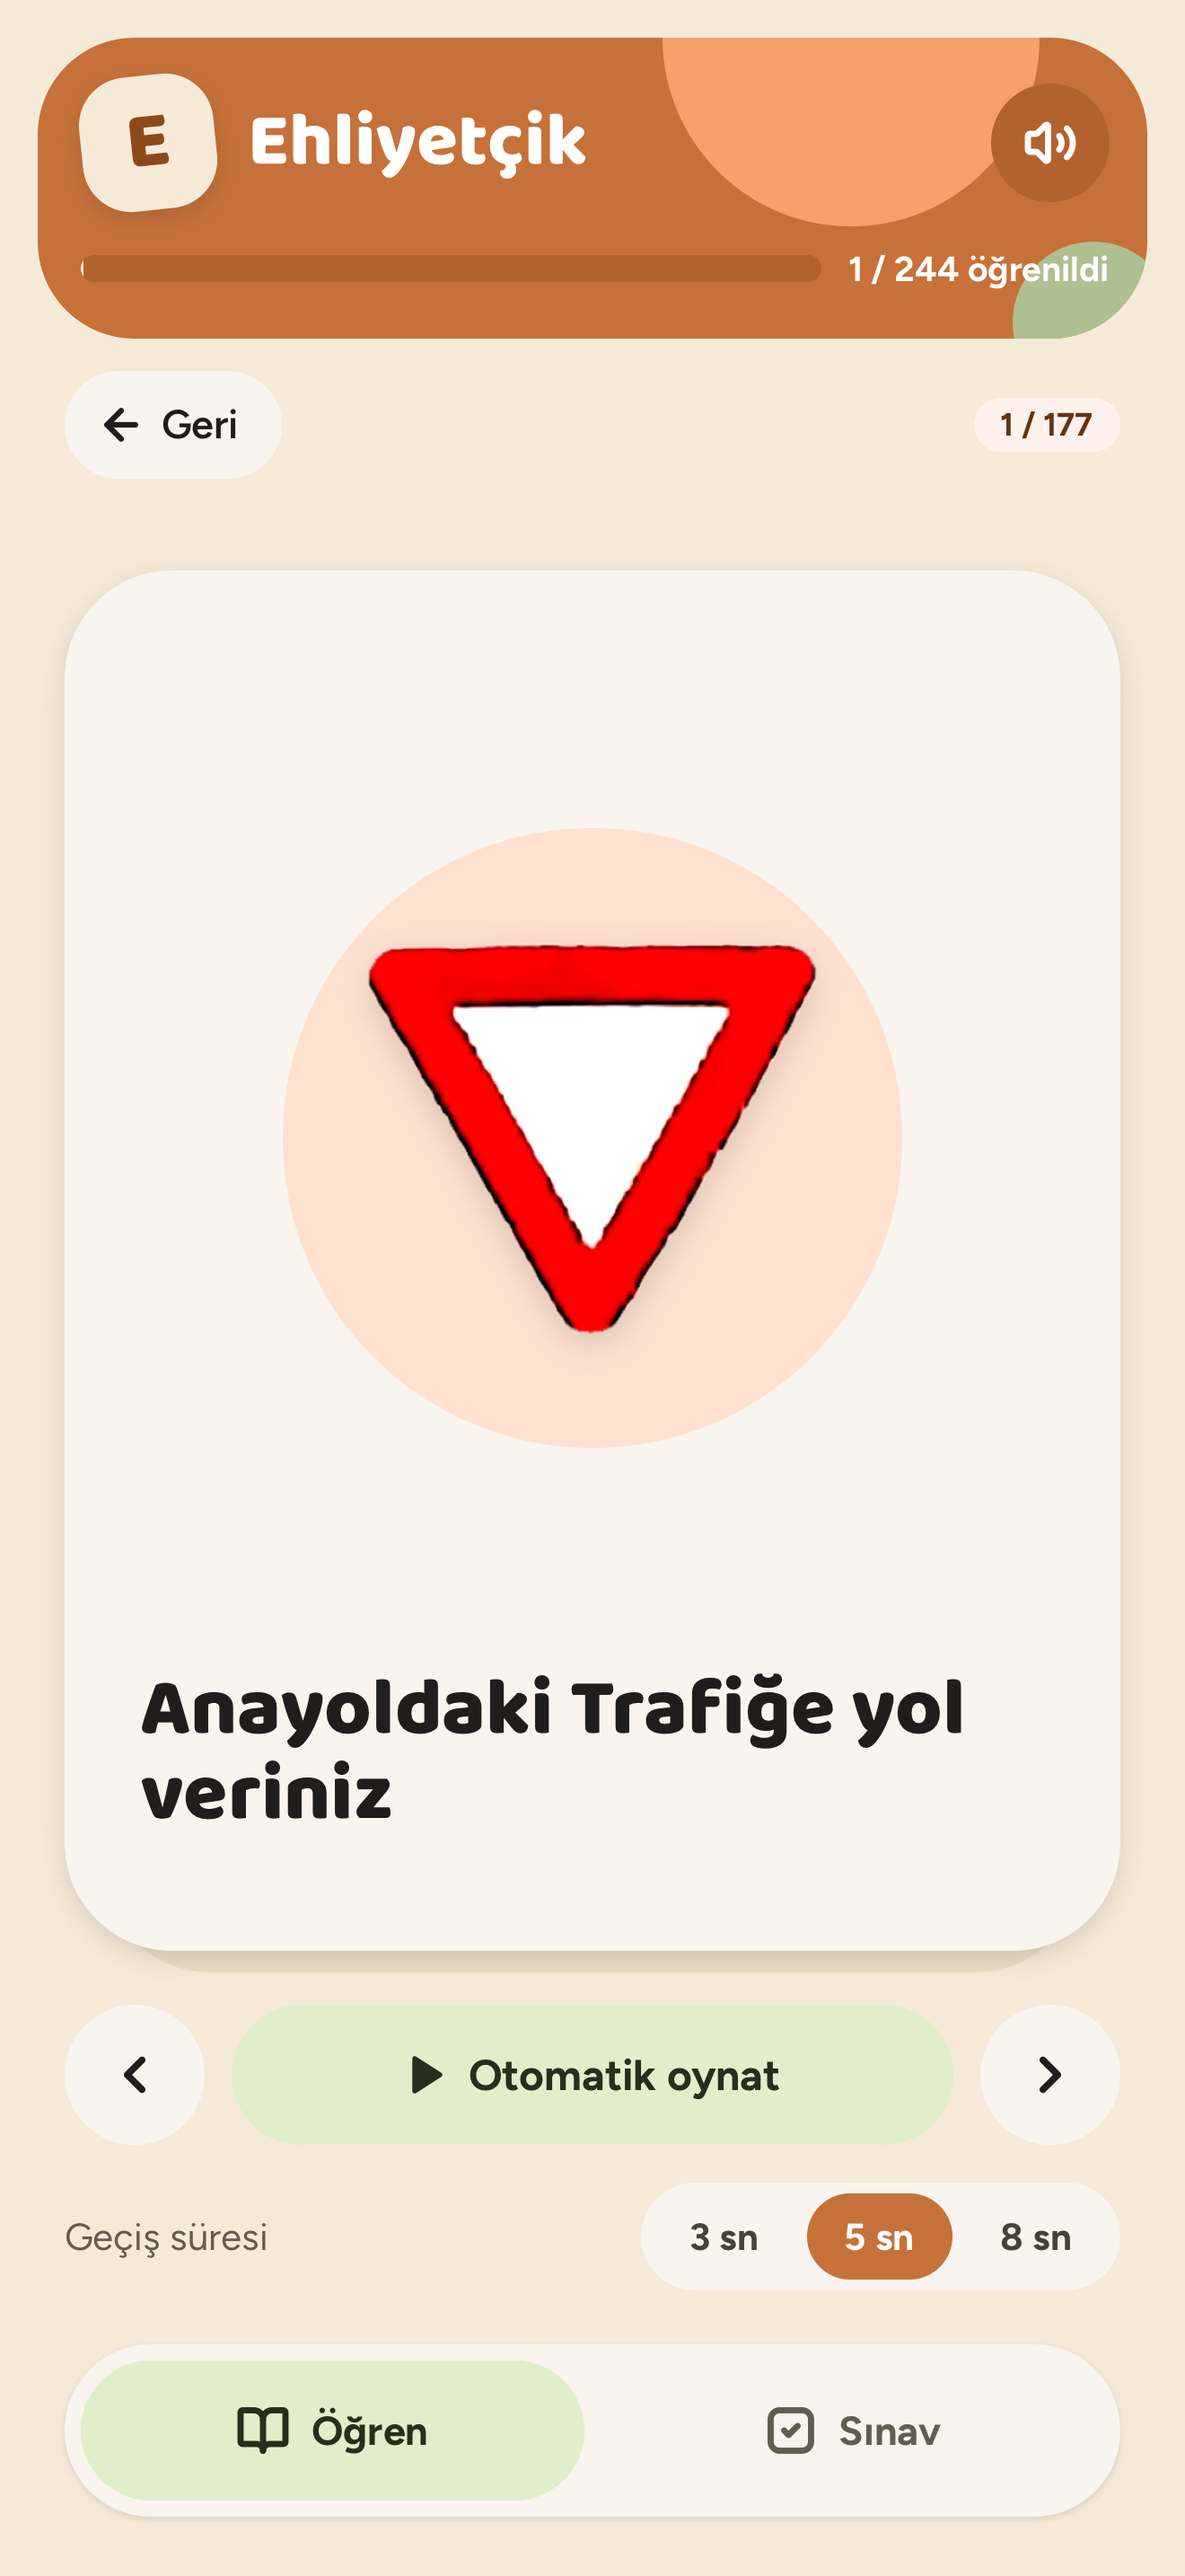
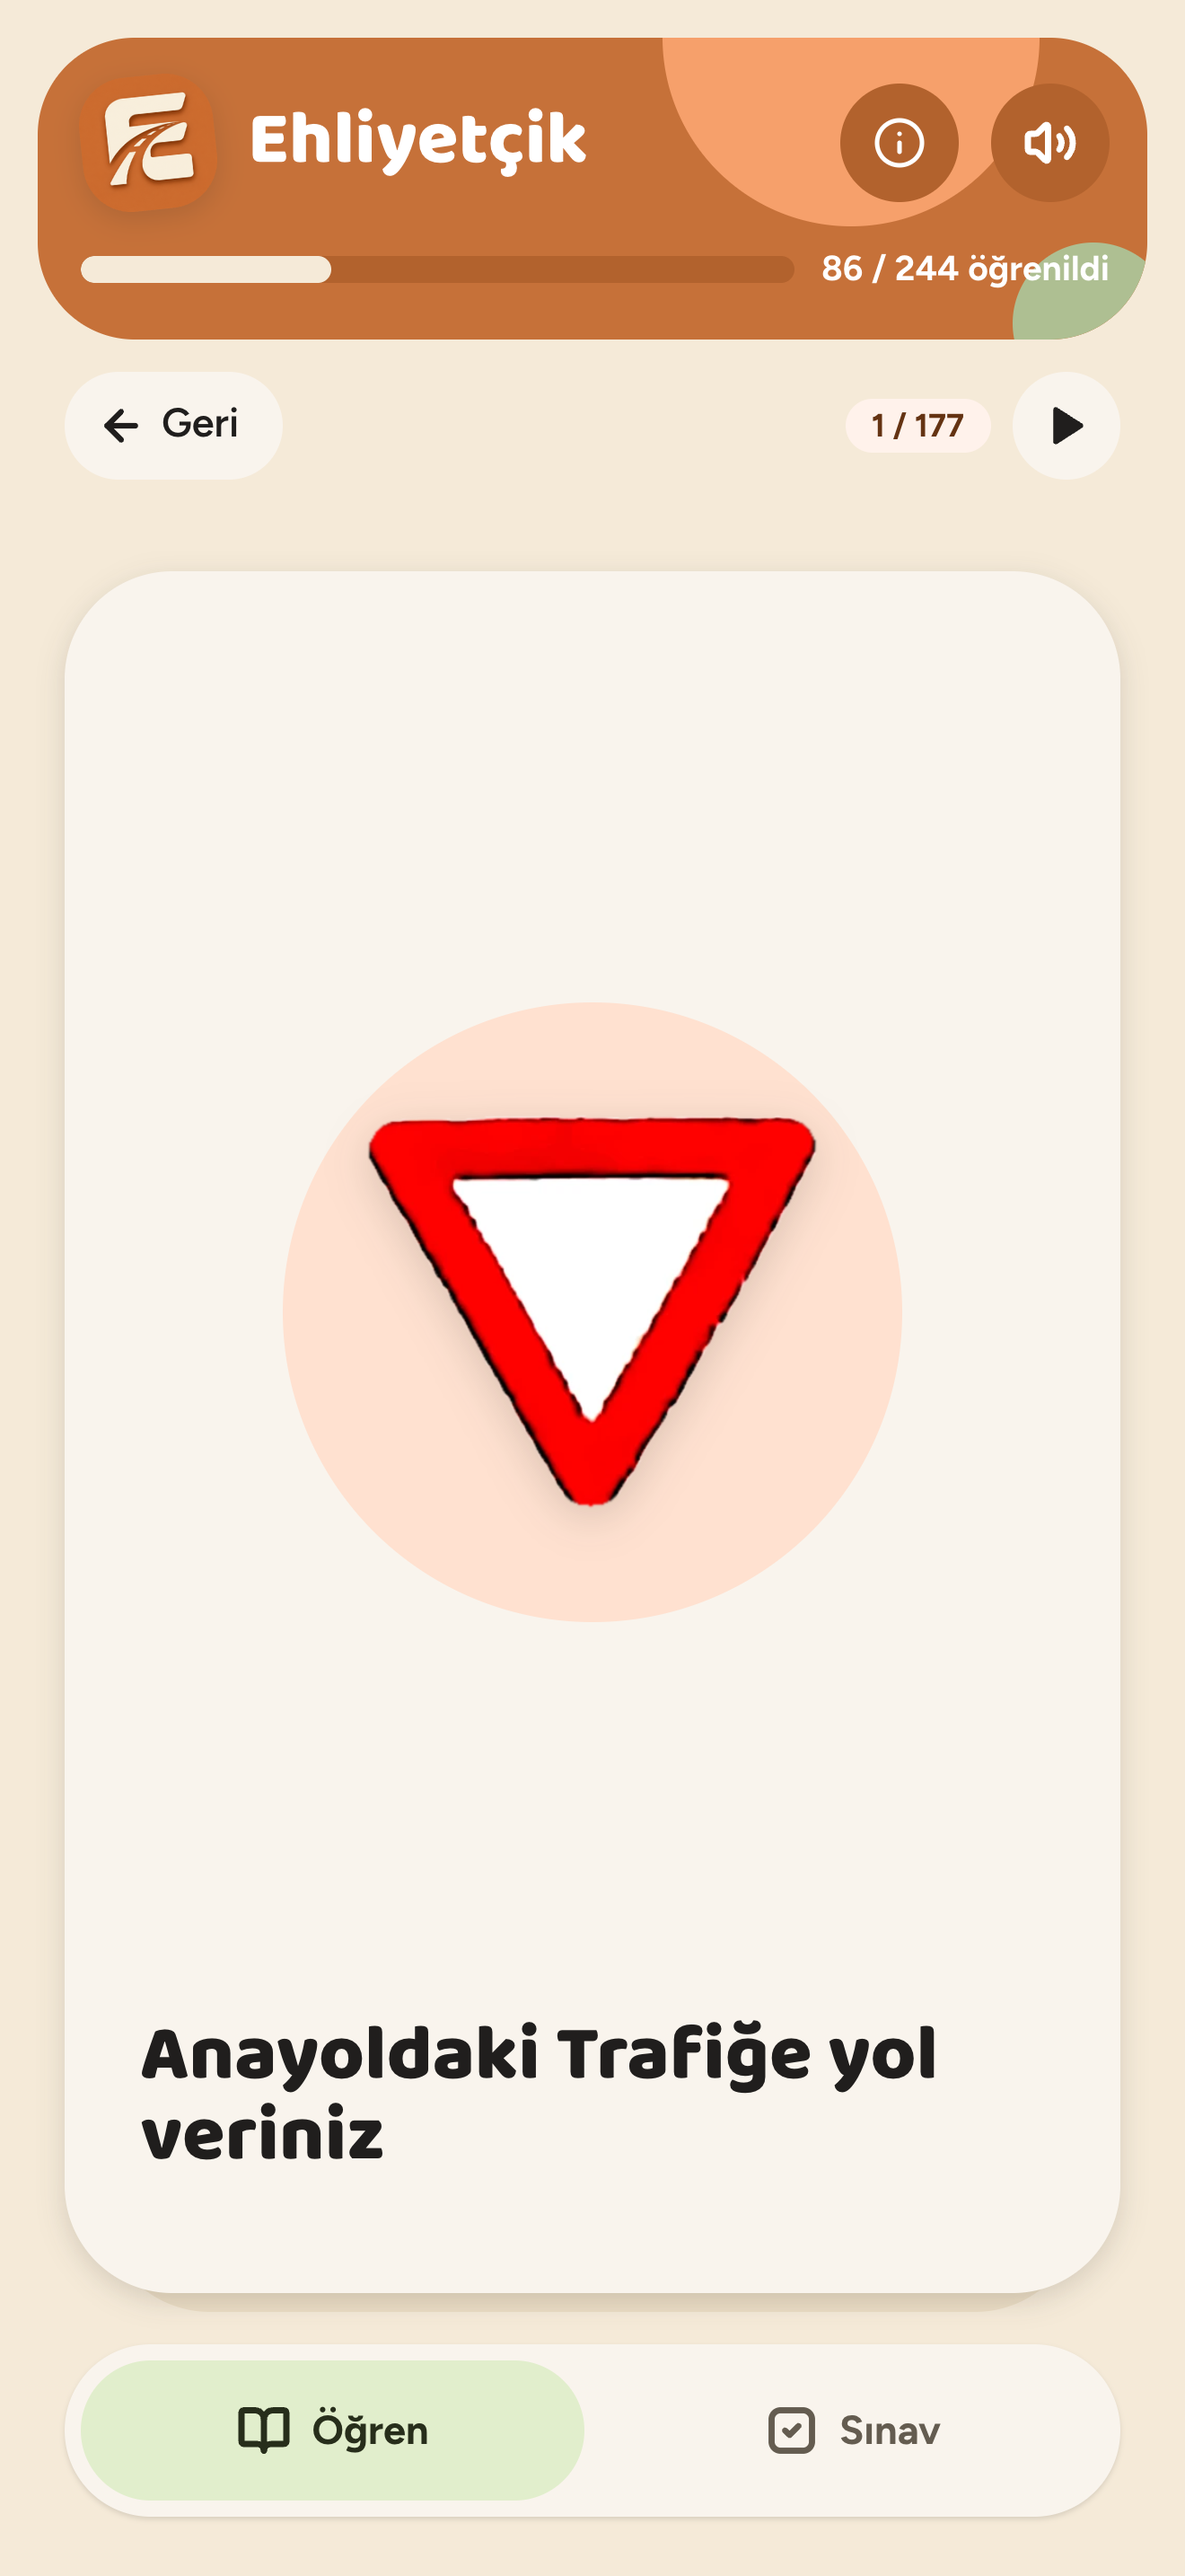
Retake 6.9" App Store screenshots with current UI, build 5

diff --git a/docs/appstore/submission-checklist.md b/docs/appstore/submission-checklist.md
@@ -5,7 +5,7 @@ Done in the repo:
 - [x] `ITSAppUsesNonExemptEncryption = false`, `UIRequiredDeviceCapabilities = arm64`
 - [x] App-level `ios/App/App/PrivacyInfo.xcprivacy` (no tracking, no collected data, no required-reason APIs); Capacitor 8 ships its own empty manifest too
 - [x] Bundled Piper audio for every question (`public/audio`, 311 mp3)
-- [x] Icon, 6.9" screenshots, metadata (`docs/appstore/metadata.md`), privacy/support pages (`site/`)
+- [x] Icon, 6.9" screenshots (1320×2868, no alpha, retaken for build 5: home, learn sign, exam, learn rule, sound menu, exam answer), metadata (`docs/appstore/metadata.md`), privacy/support pages (`site/`)
 
 In Xcode (after `make ios`):
 - [ ] Run on a real iPhone: Öğren audio plays (also with the silent switch on), swipe, Sınav, retry wrong answers, About links
@@ -19,4 +19,4 @@ In App Store Connect:
 - [ ] App Privacy: "Data Not Collected"
 - [ ] Privacy Policy URL and Support URL: https://ardakaraosmanoglu.github.io/ehliyetcik.com/ (check pages are live, repo must be public or on a paid plan)
 - [ ] Pricing: Free (the Piper voice is CC BY-NC-SA 4.0, non-commercial only)
-- [ ] Paste description, keywords, review notes from `docs/appstore/metadata.md`, upload screenshots, select the build, submit
+- [ ] Paste description, keywords, review notes from `docs/appstore/metadata.md`, upload the 6 screenshots from `docs/appstore/` (6.9" set), select the build (number must be higher than any already uploaded), submit
